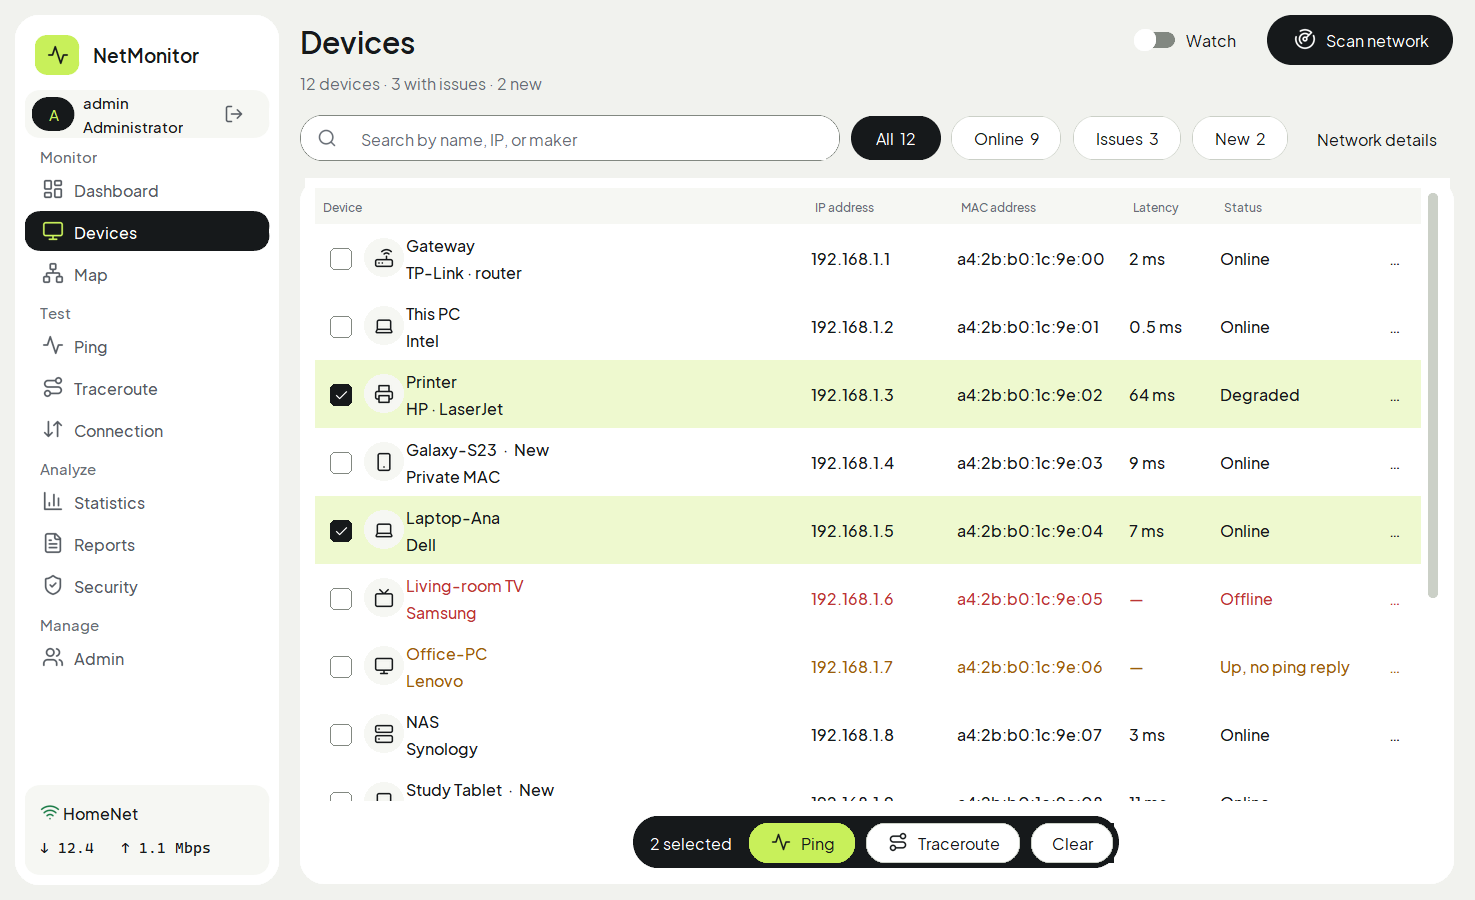
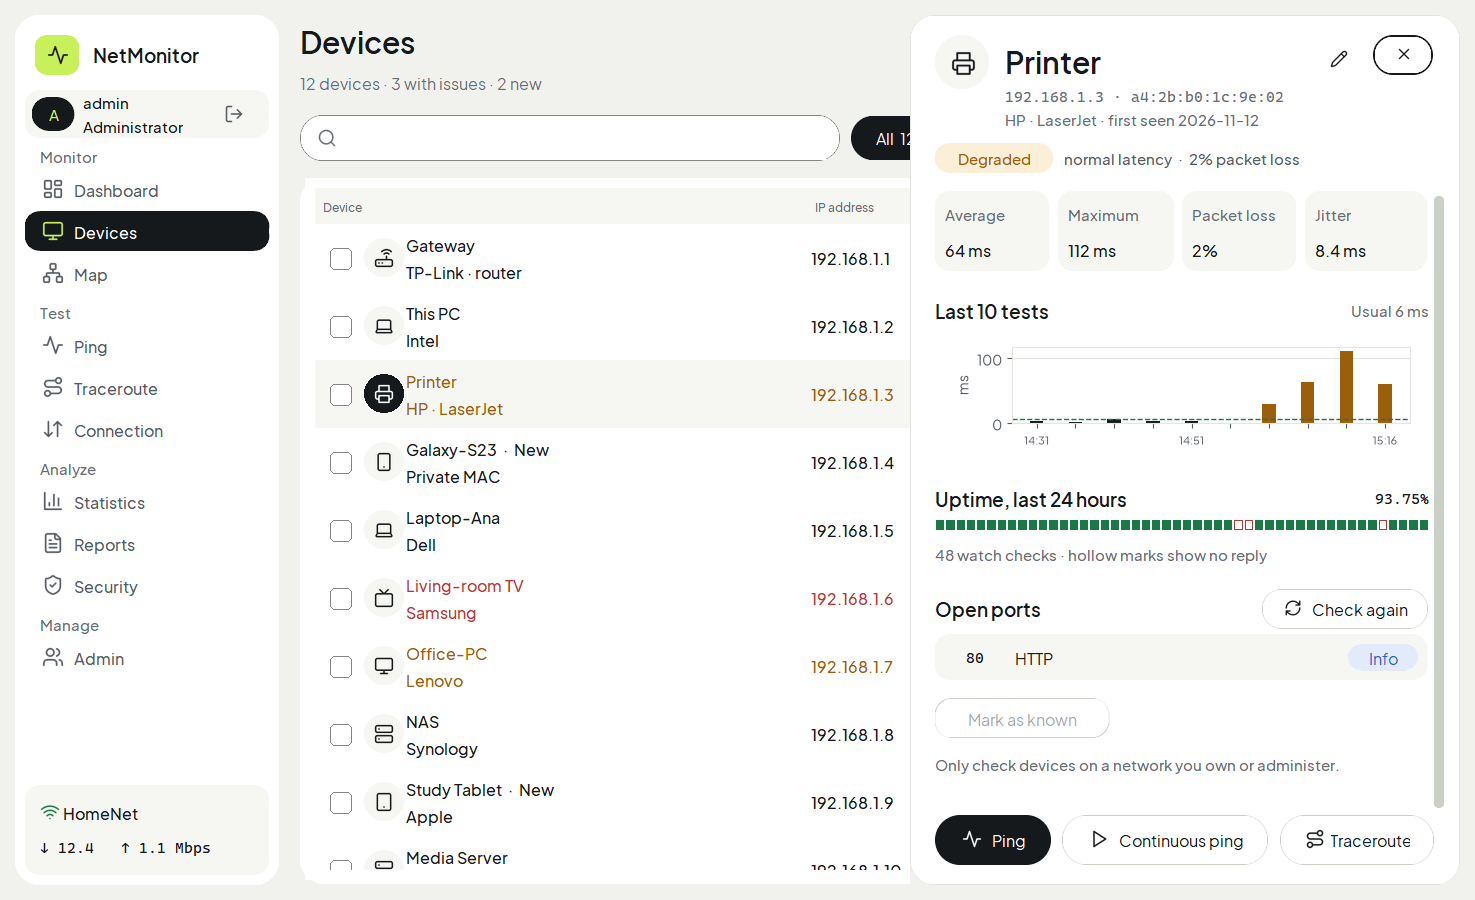
Refresh all README images

diff --git a/README.md b/README.md
@@ -4,7 +4,7 @@ NetMonitor is a Windows desktop app for monitoring a local network. It discovers
 
 Final project for CCS 234 (Communications and Networking), West Visayas State University, CICT.
 
-![Devices view with search, status filters, and actions for two selected devices using sample data](Documentation/screenshots/devices_view.png)
+![Devices view with the Printer details drawer open, showing recent latency, uptime, and ping and traceroute actions](Documentation/screenshots/devices_view.png)
 
 ## Features
 
@@ -22,7 +22,9 @@ Final project for CCS 234 (Communications and Networking), West Visayas State Un
 - **Connection** shows Wi-Fi signal and nearby channels, live upload and download rates, and this PC’s data use for the day.
 - **Watch** periodically checks for devices joining or going offline and records uptime samples for known devices.
 
-![Continuous ping with a live latency chart, session statistics, and reply output using sample data](Documentation/screenshots/ping_view.png)
+![Continuous ping to a sample gateway with live latency, an amber spike, a lost reply, and session statistics](Documentation/screenshots/ping_view.png)
+
+The screenshots use simulated network data.
 
 ## Download
 
@@ -67,7 +69,7 @@ If **Connection** asks for Location access, search Windows Settings for **Locati
 
 The Tkinter and CustomTkinter interface calls the services layer. Network operations such as scans and ping run on background threads so the window stays responsive, and SQLite stores the results locally. NetMonitor identifies each network by its IPv4 range and gateway MAC address when available.
 
-![Application architecture](Documentation/diagrams/architecture.png)
+![NetMonitor architecture. The Tkinter interface calls application services, which coordinate network tests, SQLite storage, and report export.](Documentation/diagrams/architecture.png)
 
 | Module | Feature | Networking concepts |
 |---|---|---|
